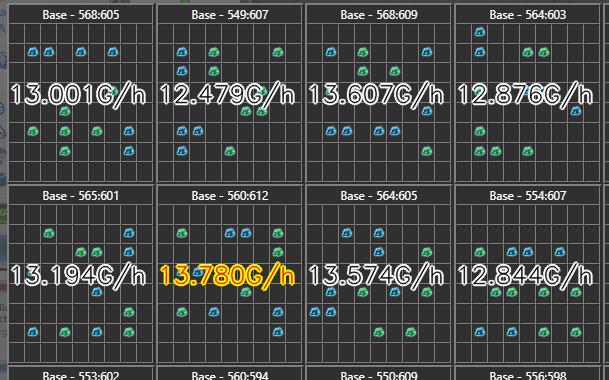
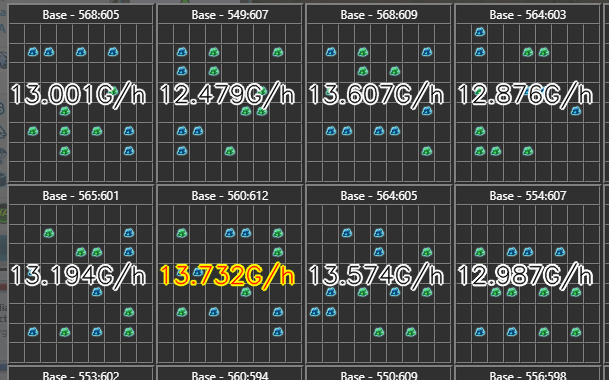
implemented dynamic topn

Changed region(s): [[0.7488, 0.6947, 0.9672, 0.7526], [0.3432, 0.6947, 0.4056, 0.7526]]

diff --git a/app.py b/app.py
@@ -1,10 +1,11 @@
 import numpy as np
 import time
+import multiprocessing
 
 from searching import DfsSearch, SearchResult, SolutionItem
 from game import BaseLayout, Constants
 from cnctaopt import CncTaOptParser
-from image2base import Image2Base, ImageLayout
+from image2base import Image2Base, ImageLayout, CoordinateRateTuple
 from pathlib import Path
 
 def best_power_layout_from_url(cnctaopt_url :str, n_total_buildings :int=38, top_n :int=1):
@@ -45,6 +46,12 @@ def best_power_layout_from_url(cnctaopt_url :str, n_total_buildings :int=38, top
     cnctaopt.assign(lay.field)
     print(f"CncTAOpt-Url to best layout:\n{cnctaopt.generate_url()}\n\n")
 
+class LayoutSearchResult:
+    def __init__(self, layout_index :int, layout: ImageLayout, search_result :SearchResult):
+        self.layout_index = layout_index
+        self.layout = layout
+        self.search_result = search_result
+
 def best_power_layout_from_image(img_in :str, n_total_buildings :int=38, top_n :int=1, next_level_threshold :int=0):
     """
     Parses the given image which is the output of the BaseScanner script in TA.
@@ -76,42 +83,51 @@ def best_power_layout_from_image(img_in :str, n_total_buildings :int=38, top_n :
         top_n_next :int = top_n
         print(f"Searching for best layout with top_n={top_n}")
     
-    best_result :SearchResult = None
-    best_layout :ImageLayout = None
-    results = list()
+    print_result = lambda idx, result: print(f"  Layout {idx:>2}: {result.best.power_rate:,}/h {result.best.num_accus:>2} accus {result.iterations:>5,} iterations {result.runtime:>8.3f} sec")
+    print_stats = lambda n_layouts, runtime: print(f"Processed {n_layouts} layouts in {runtime:.1f} seconds ({runtime/n_layouts:.3f} sec/layout)")
+
+    # we store all search reasults in a list of tuples : (layout-index, layout, search result)
+    results :list[LayoutSearchResult] = []
+
+    # first pass of search with top_n=top_n_start    
     for idx, layout in enumerate(layouts):
-        search = DfsSearch(BaseLayout(layout.data))
-        
-        result :SearchResult = search.find_best_power(top_n=top_n_start, n_total_buildings=n_total_buildings)
-        print(f"  Layout {idx:>2}: {result.best.power_rate:,}/h / {result.best.num_accus} accus ({result.runtime:.3f} sec)")
+        result :SearchResult = _process_layout(layout, top_n_start, n_total_buildings)
+        print_result(idx, result)
+        results.append(LayoutSearchResult(idx, layout, result))
+    n_first_pass_results = len(results)
+    print_stats(n_first_pass_results, time.time()-start_time)
 
-        # search again with top_n=top_n if we have a next_level_threshold
-        if top_n_next > top_n_start and result.best.power_rate > next_level_threshold:
-            print(f"  repeat search with top_n={top_n_next}")            
-            result :SearchResult = search.find_best_power(top_n=top_n_next, n_total_buildings=n_total_buildings)
-            print(f"  Layout {idx:>2}: {result.best.power_rate:,}/h / {result.best.num_accus} accus ({result.runtime:.3f} sec)")
-
-        results.append( (layout.coord, result.best.power_rate) )
-
-        if best_result is None or best_result.best.power_rate < result.best.power_rate:
-            best_result = result
-            best_layout = layout
-
+    # search again with a larger top_n, if requested
+    start_time = time.time()
+    if top_n_next > top_n_start:
+        print(f"Repeat search with top_n={top_n_next}")
+        for result_idx in range(n_first_pass_results):
+            if results[result_idx].search_result.best.power_rate > next_level_threshold:                
+                result :SearchResult = _process_layout(layout, top_n_next, n_total_buildings)
+                results.append(LayoutSearchResult(idx, layout, result))
+                print_result(idx, result)
+        print_stats(len(results)-n_first_pass_results, time.time()-start_time)
+    
     # show stats
-    runtime = time.time()-start_time
-    print(f"Processed {len(layouts)} layouts in {runtime:.1f} seconds ({runtime/len(layouts):.3f} sec/layout)")
-    print(f"Best layout found has power production rate of {best_result.best.power_rate:,}/h")
+    results.sort(reverse=True, key=lambda x: x.search_result.best.power_rate)
+    print(f"Best layout is {results[0].layout_index} and has a power production rate of { results[0].search_result.best.power_rate:,}/h")
 
     # write output image
     p = Path(img_in)
     pars = f"_b{n_total_buildings}_topn{top_n}"
     img_out = f"{Path.joinpath(p.parent, p.stem + pars + p.suffix)}"
-    ib.write_rates_to_image(img_in, img_out, results)
+    ib.write_rates_to_image(img_in, img_out, [CoordinateRateTuple(r.layout_index, r.layout.coord, r.search_result.best.power_rate) for r in results])
     print(f"Results written to {img_out}")
 
     # generate CncTAOpt-link to best layout
-    lay = BaseLayout(copy_from_array=best_layout.data)
-    lay.set(Constants.ACCU, np.array([node.coord for node in best_result.best.path], dtype=np.int32))
-    lay.set_optimal_powerplants(n_total_buildings - len(best_result.best.path))
+    lay = BaseLayout(copy_from_array=results[0].layout.data)
+    lay.set(Constants.ACCU, np.array([node.coord for node in results[0].search_result.best.path], dtype=np.int32))
+    lay.set_optimal_powerplants(n_total_buildings - len(results[0].search_result.best.path))
     cnctaopt = CncTaOptParser(field = lay.field)
     print(f"CncTAOpt-Url to best layout:\n{cnctaopt.generate_url()}\n\n")
+
+def _process_layout(layout: ImageLayout, top_n :int, n_total_buildings :int) -> SearchResult:
+    search = DfsSearch(BaseLayout(layout.data))        
+    result :SearchResult = search.find_best_power(top_n=top_n, n_total_buildings=n_total_buildings)
+    return result
+    

diff --git a/image2base.py b/image2base.py
@@ -18,6 +18,12 @@ class ImageLayout:
         self.__data = data
         self.__coord = coord
 
+class CoordinateRateTuple:
+    def __init__(self, layout_index:int, coord :tuple[int,int], rate :int):
+        self.layout_index = layout_index
+        self.coord = coord
+        self.rate = rate
+
 class Image2Base:
     """
     Imgage2Base can extract the base layouts from an 
@@ -122,7 +128,7 @@ class Image2Base:
         else:
             return Constants.EMPTY
 
-    def write_rates_to_image(self, input_image :str, output_image :str, data :list[tuple[tuple[int,int], int]]):
+    def write_rates_to_image(self, input_image :str, output_image :str, data :list[CoordinateRateTuple]):
         """
         Write the rates provided in data into the impage provided by input_image and
         stores the result in the output-image
@@ -134,12 +140,16 @@ class Image2Base:
                     each element in the list is a tuple <coord, rate>
         """
         img = cv2.imread(input_image)
-        max_rate = max([item[1] for item in data])
-        for item in data:
-            coord = (int(item[0][0]-self.__layout_dim[0]/2), item[0][1])
-            rate = f"{item[1]/1000000000.0:.3f}G/h"            
+        max_rate = max([item.rate for item in data])
+        
+        for layout_index in [item.layout_index for item in data]:
+            # get the element if this layout index which has the highest rate
+            item = sorted([item for item in data if item.layout_index == layout_index], reverse=True, key=lambda x:x.rate)[0]
+
+            coord = (int(item.coord[0]-self.__layout_dim[0]/2), item.coord[1])
+            rate = f"{item.rate/1000000000.0:.3f}G/h"            
             
-            if item[1] == max_rate:
+            if item.rate == max_rate:
                 outer_color = (0,255,255)
                 inner_color = (0,0,255)
             else:

diff --git a/main.py b/main.py
@@ -14,7 +14,8 @@ from image2base import Image2Base
 #best_power_layout_from_image('images/van10.png', n_total_buildings=38, top_n=1)
 
 # run a search on a screenshot from the BaseScanner:
-best_power_layout_from_image('sample_layouts.png', n_total_buildings=38, top_n=2, next_level_threshold=13600000000)
+best_power_layout_from_image('sample_layouts.png', n_total_buildings=38, top_n=2, next_level_threshold=13700000000)
+#best_power_layout_from_image('sample_layouts.png', n_total_buildings=38, top_n=1)
 
 # optimize some layouts given by a cnctaopt-link:
 #best_power_layout_from_url("https://cnctaopt.com/FDjPl", n_total_buildings=38, top_n=1) # 0.09s, 14.117 G/h

diff --git a/searching.py b/searching.py
@@ -5,7 +5,7 @@ class PathNode:
     """
     Type used for elements of solution paths in SolutionItem.path
     """
-    def __init__(self, coord, power_rate :int):
+    def __init__(self, coord :tuple[int,int], power_rate :int):
         self.coord = coord
         self.power_rate = power_rate
     
